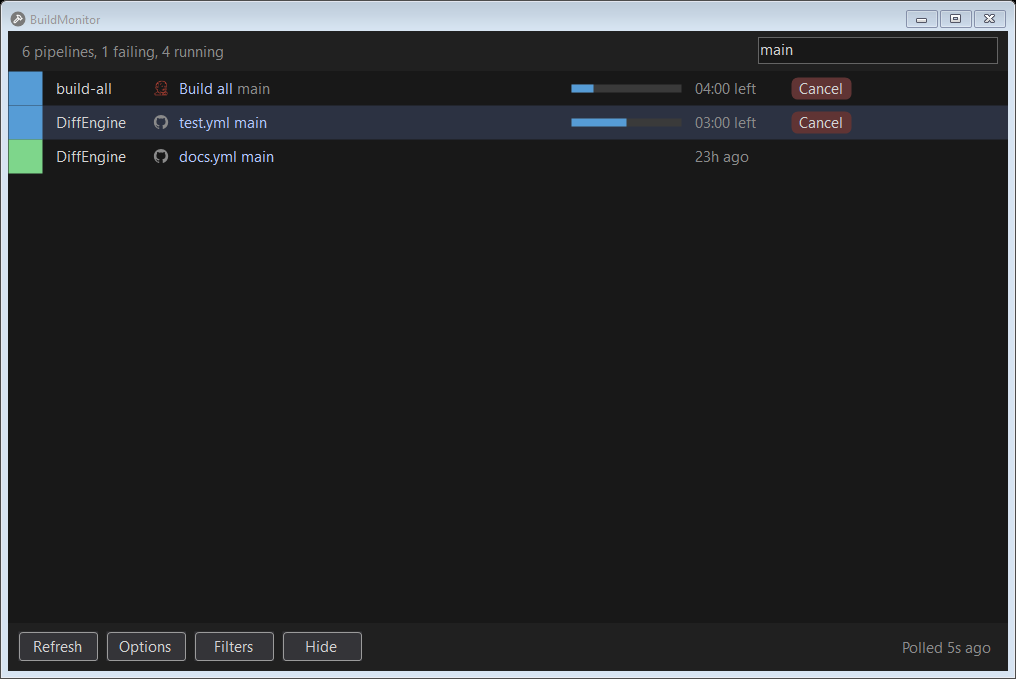
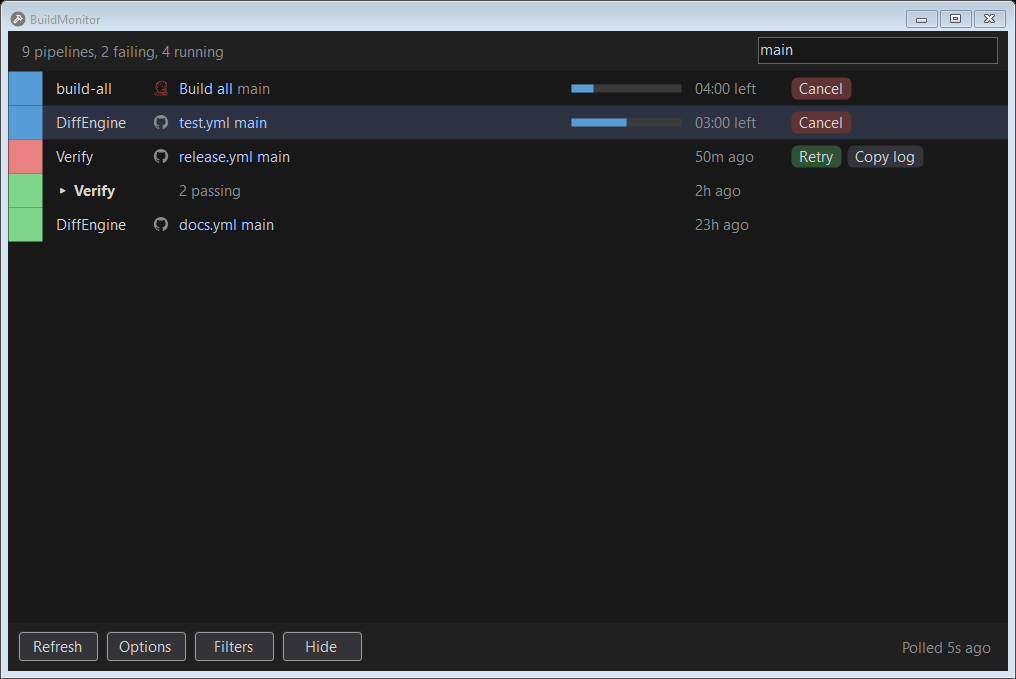
Hide the progress bar before anything else in a narrow window
The bar shows only while the names, the detail and every chip still fit beside
it; the timing says the same. Then the chips overflow, then the names shrink.
Applied to the WinForms, ImGui and AppKit heads.

Also regenerates the Searched baseline for its WithFailedGroup fixture.

diff --git a/native/swift/Sources/Bm/BuildsRenderer.swift b/native/swift/Sources/Bm/BuildsRenderer.swift
@@ -171,9 +171,9 @@ final class BuildsRenderer {
         // name in line with the rows under it.
         let iconWidth: CGFloat = frame.rows.contains { !$0.provider.isEmpty } ? iconSize + gap : 0
         let textX = rowHeight + gap
-        // What the name, the detail and the chips share: the row less the square, the bar, the
-        // timing and a gap after each of the five cells.
-        let available = width - textX - barWidth - timingWidth - 5 * gap
+        // What the name, the detail, the bar and the chips share: the row less the square, the timing
+        // and a gap after each of the other four cells.
+        let shared = width - textX - timingWidth - 4 * gap
         // As wide as the widest name across every row, not only those on screen, so it does not shift
         // while scrolling; the detail likewise, up to forty characters, past which a long pipeline or
         // branch is cut short rather than pushing every row's chips into the drop down.
@@ -183,7 +183,11 @@ final class BuildsRenderer {
         let detailWanted = iconWidth + min(
             frame.details.map { measure($0).rounded(.up) }.max() ?? 0,
             measure(String(repeating: "0", count: 40)))
-        // The chips give way first: a row without room for all of them puts the last behind an
+        // The bar gives way before anything else, since the timing beside it says the same: it shows
+        // only while the names, the detail and every chip still fit.
+        let showBar = shared - barWidth - gap - nameWanted - detailWanted >= widestChips
+        let available = showBar ? shared - barWidth - gap : shared
+        // Then the chips: a row without room for all of them puts the last behind an
         // overflow chip, rather than the names being cut short. Only once no chip but that one fits
         // do the names shrink.
         let spare = available - nameWanted - detailWanted
@@ -229,16 +233,19 @@ final class BuildsRenderer {
 
             drawDetail(row, index: index, from: x + iconWidth, width: detailWidth - iconWidth, textY: textY)
             x += detailWidth + gap
-            if row.progress >= 0 {
-                let track = CGRect(x: x, y: rect.midY - 4, width: barWidth, height: 8)
-                Palette.barTrack.setFill()
-                NSBezierPath(roundedRect: track, xRadius: 4, yRadius: 4).fill()
-                let filled = CGRect(x: track.minX, y: track.minY, width: track.width * CGFloat(min(1, max(0, row.progress))), height: track.height)
-                Palette.status(Int32(BM_STATUS_RUNNING.rawValue)).setFill()
-                NSBezierPath(roundedRect: filled, xRadius: 4, yRadius: 4).fill()
+            if showBar {
+                if row.progress >= 0 {
+                    let track = CGRect(x: x, y: rect.midY - 4, width: barWidth, height: 8)
+                    Palette.barTrack.setFill()
+                    NSBezierPath(roundedRect: track, xRadius: 4, yRadius: 4).fill()
+                    let filled = CGRect(x: track.minX, y: track.minY, width: track.width * CGFloat(min(1, max(0, row.progress))), height: track.height)
+                    Palette.status(Int32(BM_STATUS_RUNNING.rawValue)).setFill()
+                    NSBezierPath(roundedRect: filled, xRadius: 4, yRadius: 4).fill()
+                }
+
+                x += barWidth + gap
             }
 
-            x += barWidth + gap
             drawText(row.timing, at: CGPoint(x: x, y: textY), font: font, colour: Palette.dim, width: timingWidth)
             x += timingWidth + gap
             drawChips(row, index: index, from: x, to: x + chipsWidth, rowRect: rect, overflowWidth: overflowWidth)

diff --git a/src/BuildMonitor.Windows/RowsCanvas.cs b/src/BuildMonitor.Windows/RowsCanvas.cs
@@ -243,15 +243,16 @@ sealed class RowsCanvas : Control
     /// <summary>
     /// The widths every row shares, so the columns line up. The name column is as wide as the
     /// widest name and the detail column as the widest pipeline and branch, up to a readable
-    /// maximum, and the chips give way first: a row without room for all of them puts the last
-    /// behind an overflow chip, where a fixed chips column cut the names short instead. Only once no
-    /// chip but that one fits do the names shrink.
+    /// maximum. The bar gives way before anything else, since the timing beside it says the same:
+    /// it shows only while the names, the detail and every chip still fit. Then the chips: a row
+    /// without room for all of them puts the last behind an overflow chip, where a fixed chips column
+    /// cut the names short instead. Only once no chip but that one fits do the names shrink.
     /// </summary>
-    (int Name, int Detail, int Chips) ColumnWidths(BuildsPage builds, int iconWidth)
+    (int Name, int Detail, int Bar, int Chips) ColumnWidths(BuildsPage builds, int iconWidth)
     {
         var gap = LogicalToDeviceUnits(padding);
-        // After the status square, a gap after each of the name, detail, bar, timing and chips.
-        var available = Width - RowHeight - LogicalToDeviceUnits(barLength) - LogicalToDeviceUnits(timingLength) - 6 * gap;
+        // After the status square, a gap after each of the name, detail, timing and chips.
+        var available = Width - RowHeight - LogicalToDeviceUnits(timingLength) - 5 * gap;
         // With the padding Draw leaves, so the widest text fits without an ellipsis.
         var nameWanted = builds.Names
             .Select(_ => MeasureName(_, Font))
@@ -264,12 +265,19 @@ sealed class RowsCanvas : Control
             builds.Details.Select(_ => MeasureName(_, Font)).DefaultIfEmpty().Max(),
             MeasureName(new('0', 40), Font));
         var widest = widestChips.Sum(ChipWidth) + (widestChips.Length - 1) * LogicalToDeviceUnits(chipSpacing);
+        var bar = LogicalToDeviceUnits(barLength);
+        var barWidth = available - bar - gap - nameWanted - detailWanted >= widest ? bar : 0;
+        if (barWidth > 0)
+        {
+            available -= bar + gap;
+        }
+
         var spare = available - nameWanted - detailWanted;
         var chipsWidth = spare >= widest ? widest : Math.Max(ChipWidth(overflowLabel), spare);
         var names = Math.Max(LogicalToDeviceUnits(120), available - chipsWidth);
         var narrowest = LogicalToDeviceUnits(40);
         var nameWidth = Math.Clamp(nameWanted, narrowest, Math.Max(narrowest, names - Math.Min(LogicalToDeviceUnits(minimumDetail), detailWanted)));
-        return (nameWidth, names - nameWidth, chipsWidth);
+        return (nameWidth, names - nameWidth, barWidth, chipsWidth);
     }
 
     static string DisplayName(BuildRow row) =>
@@ -281,7 +289,7 @@ sealed class RowsCanvas : Control
     Font NameFont(BuildRow row) =>
         row.Kind == RowKind.Group ? bold : Font;
 
-    void DrawRow(Graphics graphics, BuildRow row, Rectangle bounds, int index, int iconWidth, (int Name, int Detail, int Chips) layout)
+    void DrawRow(Graphics graphics, BuildRow row, Rectangle bounds, int index, int iconWidth, (int Name, int Detail, int Bar, int Chips) layout)
     {
         // The full height of the row and flush with its neighbours, so a run of rows in one status
         // reads as one block rather than a column of dots.
@@ -293,7 +301,6 @@ sealed class RowsCanvas : Control
         var gap = LogicalToDeviceUnits(padding);
         var x = bounds.Height + gap;
         var centreY = bounds.Top + bounds.Height / 2;
-        var barWidth = LogicalToDeviceUnits(barLength);
         var timingWidth = LogicalToDeviceUnits(timingLength);
 
         DrawName(graphics, row, index, x, bounds, layout.Name);
@@ -314,17 +321,21 @@ sealed class RowsCanvas : Control
         DrawDetail(graphics, row, index, x + iconWidth, bounds, layout.Detail - iconWidth);
         x += layout.Detail + gap;
 
-        if (row.Progress >= 0)
+        if (layout.Bar > 0)
         {
-            var trackHeight = LogicalToDeviceUnits(8);
-            var track = new Rectangle(x, centreY - trackHeight / 2, barWidth, trackHeight);
-            using var trackBrush = new SolidBrush(Palette.BarTrack);
-            graphics.FillRectangle(trackBrush, track);
-            using var fillBrush = new SolidBrush(Palette.Status(BuildStatus.Running));
-            graphics.FillRectangle(fillBrush, new(track.Left, track.Top, (int) (track.Width * row.Progress), track.Height));
+            if (row.Progress >= 0)
+            {
+                var trackHeight = LogicalToDeviceUnits(8);
+                var track = new Rectangle(x, centreY - trackHeight / 2, layout.Bar, trackHeight);
+                using var trackBrush = new SolidBrush(Palette.BarTrack);
+                graphics.FillRectangle(trackBrush, track);
+                using var fillBrush = new SolidBrush(Palette.Status(BuildStatus.Running));
+                graphics.FillRectangle(fillBrush, new(track.Left, track.Top, (int) (track.Width * row.Progress), track.Height));
+            }
+
+            x += layout.Bar + gap;
         }
 
-        x += barWidth + gap;
         Draw(graphics, row.Timing, Font, x, bounds, timingWidth, Palette.Dim);
         x += timingWidth + gap;
         DrawChips(graphics, row, index, x, x + layout.Chips, centreY);

diff --git a/native/src/bm.cpp b/native/src/bm.cpp
@@ -515,11 +515,16 @@ void DrawBuilds(const BmScreen& screen, float bodyHeight) {
         const float widestChips = ChipWidth("PR 9999") + ChipWidth("Retry") + ChipWidth("Copy log") + 2.0f * style.ItemSpacing.x;
         const float overflowWidth = ChipWidth(overflowLabel);
         // Each boundary between the five columns carries cell padding on both sides of it. What is
-        // left, the name, the detail and the chips share.
-        const float available = tableWidth - barWidth - timingWidth - 4.0f * 2.0f * style.CellPadding.x;
+        // left, the name, the detail, the bar and the chips share.
+        const float shared = tableWidth - timingWidth - 4.0f * 2.0f * style.CellPadding.x;
         const float nameWanted = rowHeight + style.ItemSpacing.x + nameText + 2.0f * style.CellPadding.x;
         const float detailWanted = (anyIcon ? iconSize + style.ItemSpacing.x : 0.0f) + detailText;
-        // The chips give way first: a row without room for all of them puts the last behind an
+        // The bar gives way before anything else, since the timing beside it says the same: it shows
+        // only while the names, the detail and every chip still fit. Hidden, its column is kept at no
+        // width, so the columns after it keep their indexes.
+        const bool showBar = shared - barWidth - nameWanted - detailWanted >= widestChips;
+        const float available = showBar ? shared - barWidth : shared;
+        // Then the chips: a row without room for all of them puts the last behind an
         // overflow chip, rather than the names being cut short. Only once no chip but that one fits
         // do the names shrink.
         const float spare = available - nameWanted - detailWanted;
@@ -529,7 +534,7 @@ void DrawBuilds(const BmScreen& screen, float bodyHeight) {
         const float nameWidth = std::max(40.0f, std::min(nameWanted, names - std::min(minimumDetail, detailWanted)));
         ImGui::TableSetupColumn("name", ImGuiTableColumnFlags_WidthFixed, nameWidth);
         ImGui::TableSetupColumn("detail", ImGuiTableColumnFlags_WidthStretch, 1.0f);
-        ImGui::TableSetupColumn("bar", ImGuiTableColumnFlags_WidthFixed, barWidth);
+        ImGui::TableSetupColumn("bar", ImGuiTableColumnFlags_WidthFixed, showBar ? barWidth : 0.0f);
         ImGui::TableSetupColumn("timing", ImGuiTableColumnFlags_WidthFixed, timingWidth);
         ImGui::TableSetupColumn("chips", ImGuiTableColumnFlags_WidthFixed, chipsWidth);
         g.overflowAnchors.assign(static_cast<size_t>(screen.rowCount), ImVec2(-1.0f, -1.0f));
@@ -622,7 +627,7 @@ void DrawBuilds(const BmScreen& screen, float bodyHeight) {
             DrawDetail(screen, row, i);
             ImGui::PopClipRect();
             ImGui::TableSetColumnIndex(2);
-            if (row.progress >= 0.0f) {
+            if (showBar && row.progress >= 0.0f) {
                 // Drawn rather than submitted as a ProgressBar. That is a framed item, which moves the
                 // row's text baseline down by the frame padding, and the timing text in the next cell
                 // would follow it to sit below the rest of the row.

diff --git a/src/BuildMonitor.Windows.Tests/MonitorFormTests.cs b/src/BuildMonitor.Windows.Tests/MonitorFormTests.cs
@@ -51,11 +51,16 @@ public class MonitorFormTests
     public Task BuildsLight() =>
         Capture(Fixtures.WithBuilds(), Theme.Light);
 
+    // Too narrow for the bar, which gives way before the chips or the names.
+    [Test]
+    public Task Narrow() =>
+        Capture(Fixtures.WithBuilds(), width: 760);
+
     // Pinned rather than System, so a capture does not depend on the theme of whoever ran it.
-    static async Task Capture(SessionState state, Theme theme = Theme.Dark)
+    static async Task Capture(SessionState state, Theme theme = Theme.Dark, int width = 1000)
     {
         state = state with { Settings = state.Settings with { Theme = theme } };
-        using var form = new MonitorForm(ScreenBuilder.Title, 1000, 640);
+        using var form = new MonitorForm(ScreenBuilder.Title, width, 640);
         // Shown, off screen: a drop down list only paints its text once it has a handle and has
         // been laid out, and DrawToBitmap of a form that was never shown leaves it blank.
         form.StartPosition = FormStartPosition.Manual;

diff --git a/src/BuildMonitor.Windows.Tests/RowsCanvasTests.cs b/src/BuildMonitor.Windows.Tests/RowsCanvasTests.cs
@@ -67,7 +67,8 @@ public class RowsCanvasTests
     [Test]
     public async Task ANarrowRowPutsItsLastChipsBehindAnOverflowChip()
     {
-        using var canvas = Drawn(640);
+        // Narrow enough that the bar has already given way and the chips still do not all fit.
+        using var canvas = Drawn(520);
         var row = FailedRow();
         var input = ClickAlong(canvas, row, _ => _.ClickedOverflowRow >= 0);
         await Assert.That(input.ClickedOverflowRow).IsEqualTo(row);
